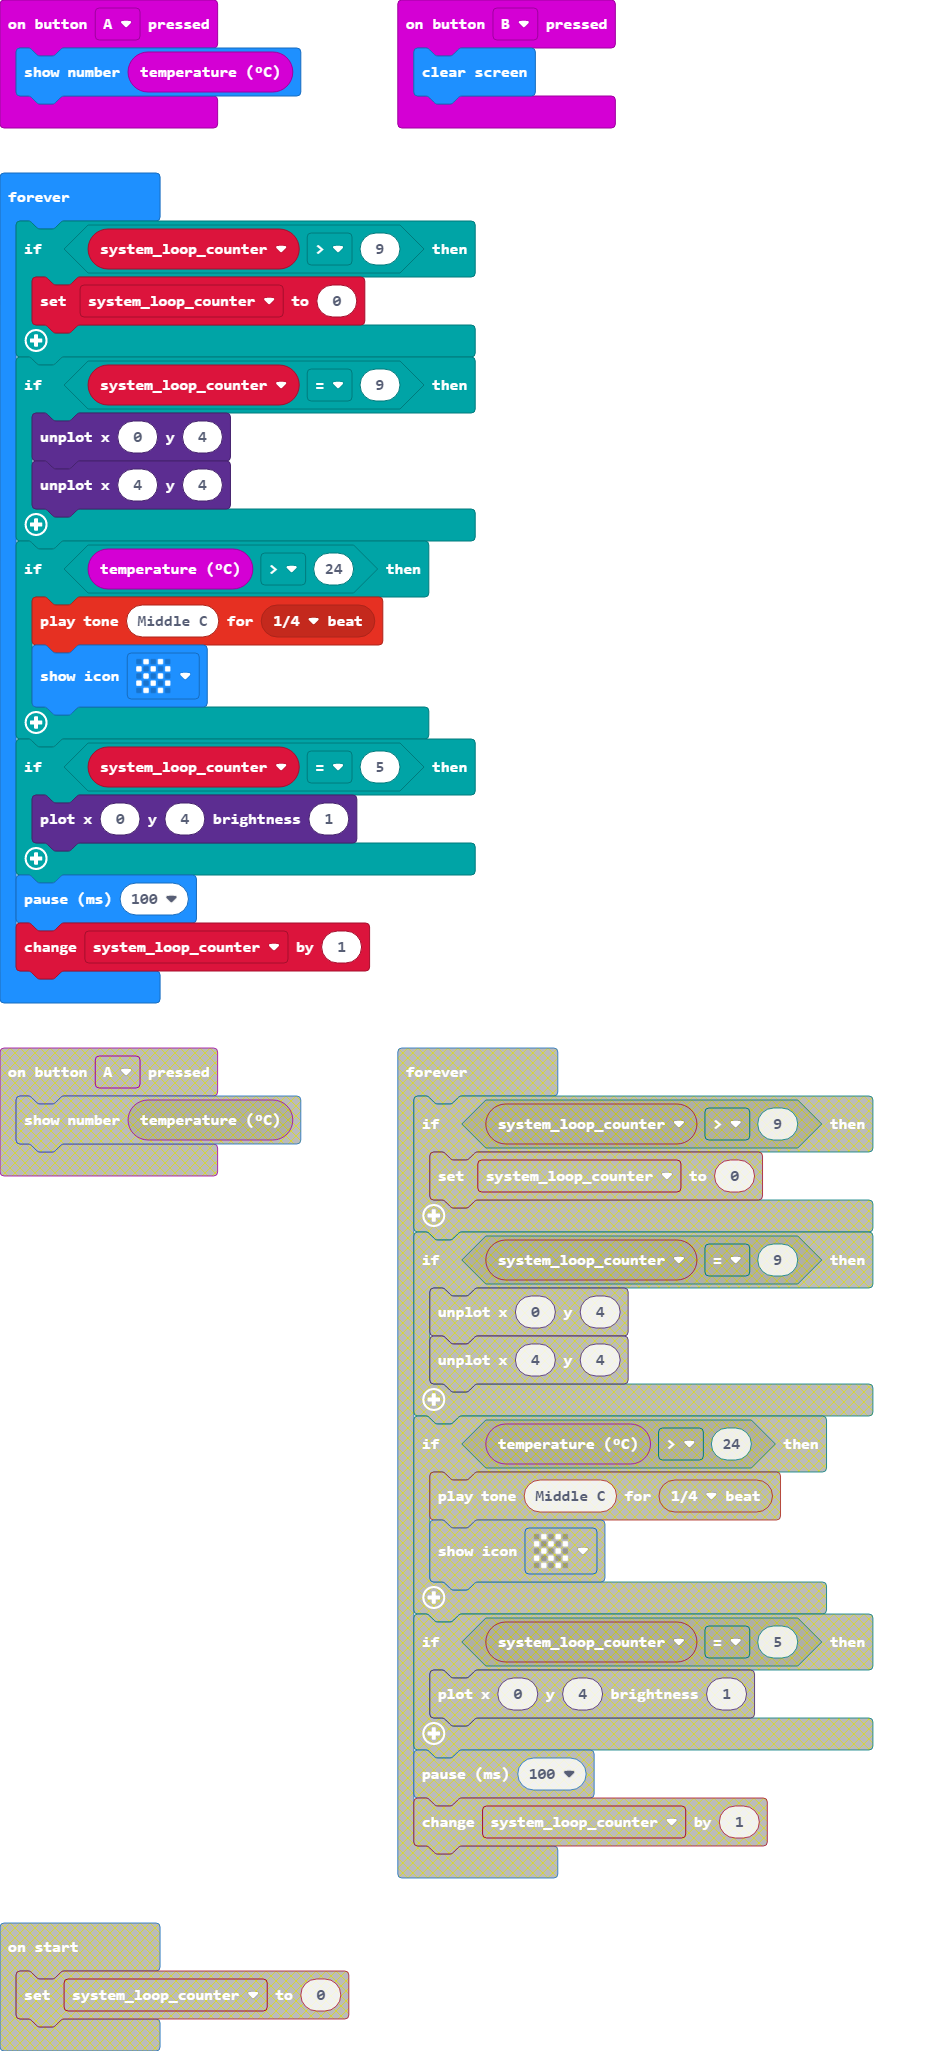
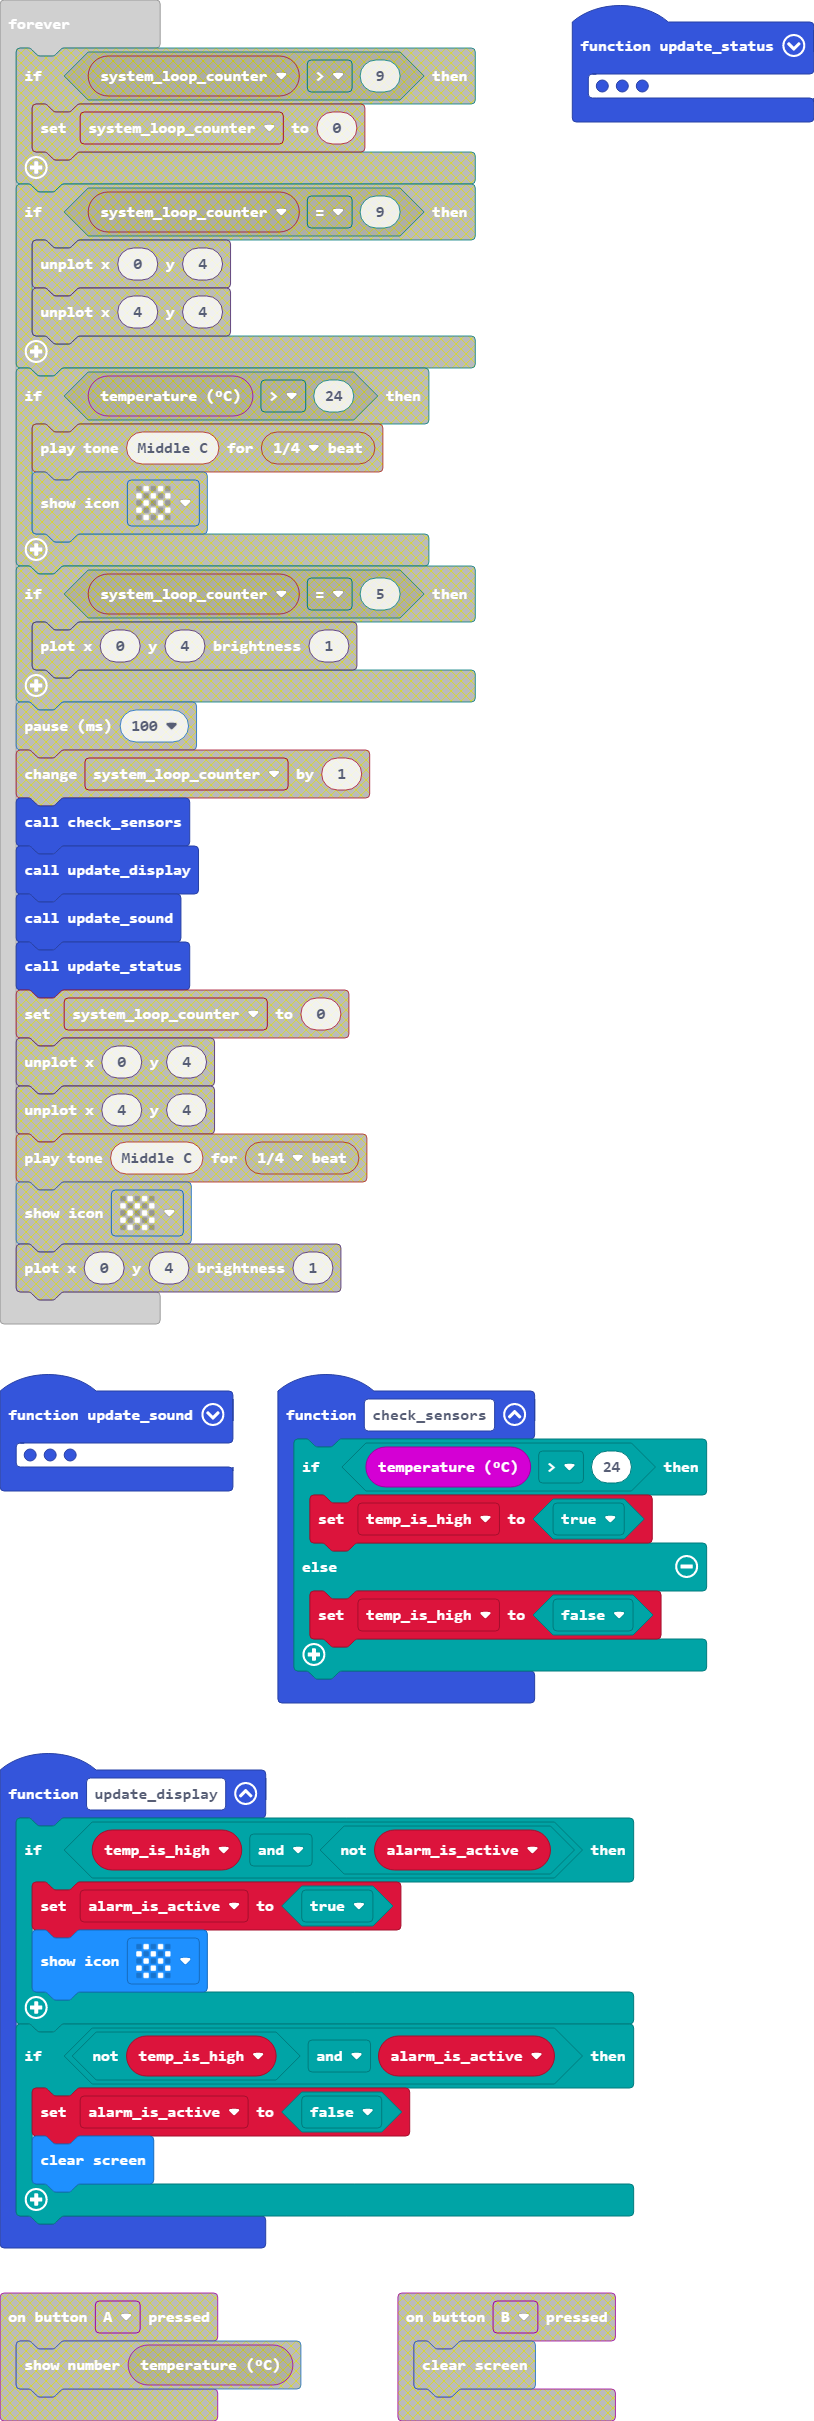
Update main.blocks, main.ts

diff --git a/main.ts b/main.ts
@@ -1,25 +1,31 @@
-let system_loop_counter = 0
-input.onButtonPressed(Button.A, function () {
-    basic.showNumber(input.temperature())
-})
-input.onButtonPressed(Button.B, function () {
-    basic.clearScreen()
-})
-basic.forever(function () {
-    if (system_loop_counter > 9) {
-        system_loop_counter = 0
-    }
-    if (system_loop_counter == 9) {
-        led.unplot(0, 4)
-        led.unplot(4, 4)
-    }
+let temp_is_high = false
+let alarm_is_active = false
+function update_status () {
+	
+}
+function update_sound () {
+	
+}
+function check_sensors () {
     if (input.temperature() > 24) {
-        music.playTone(262, music.beat(BeatFraction.Quarter))
+        temp_is_high = true
+    } else {
+        temp_is_high = false
+    }
+}
+function update_display () {
+    if (temp_is_high && !(alarm_is_active)) {
+        alarm_is_active = true
         basic.showIcon(IconNames.Chessboard)
     }
-    if (system_loop_counter == 5) {
-        led.plotBrightness(0, 4, 1)
+    if (!(temp_is_high) && alarm_is_active) {
+        alarm_is_active = false
+        basic.clearScreen()
     }
-    basic.pause(100)
-    system_loop_counter += 1
+}
+basic.forever(function () {
+    check_sensors()
+    update_display()
+    update_sound()
+    update_status()
 })
